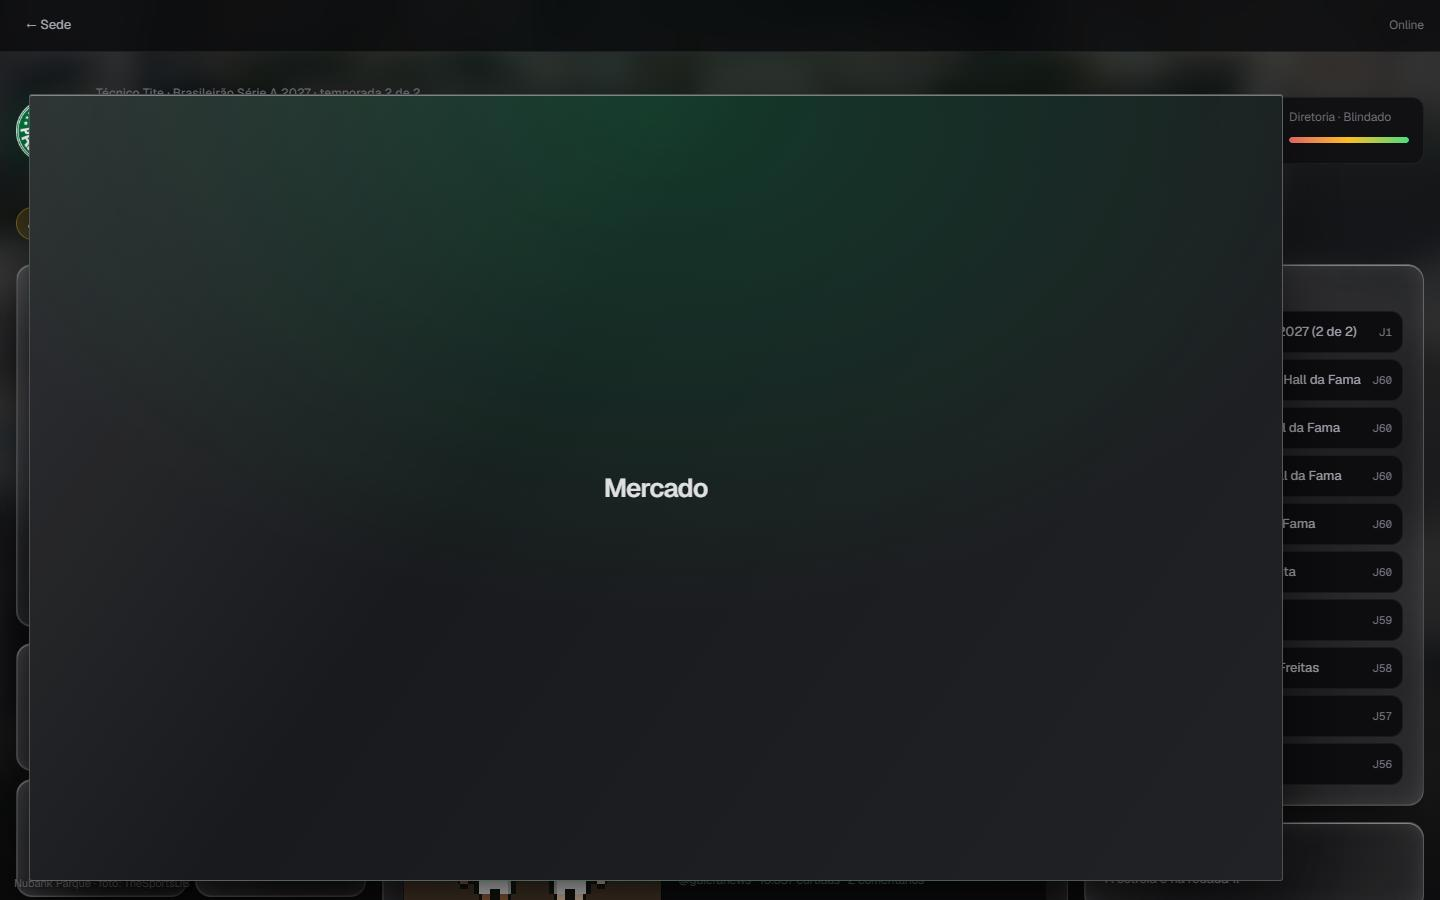
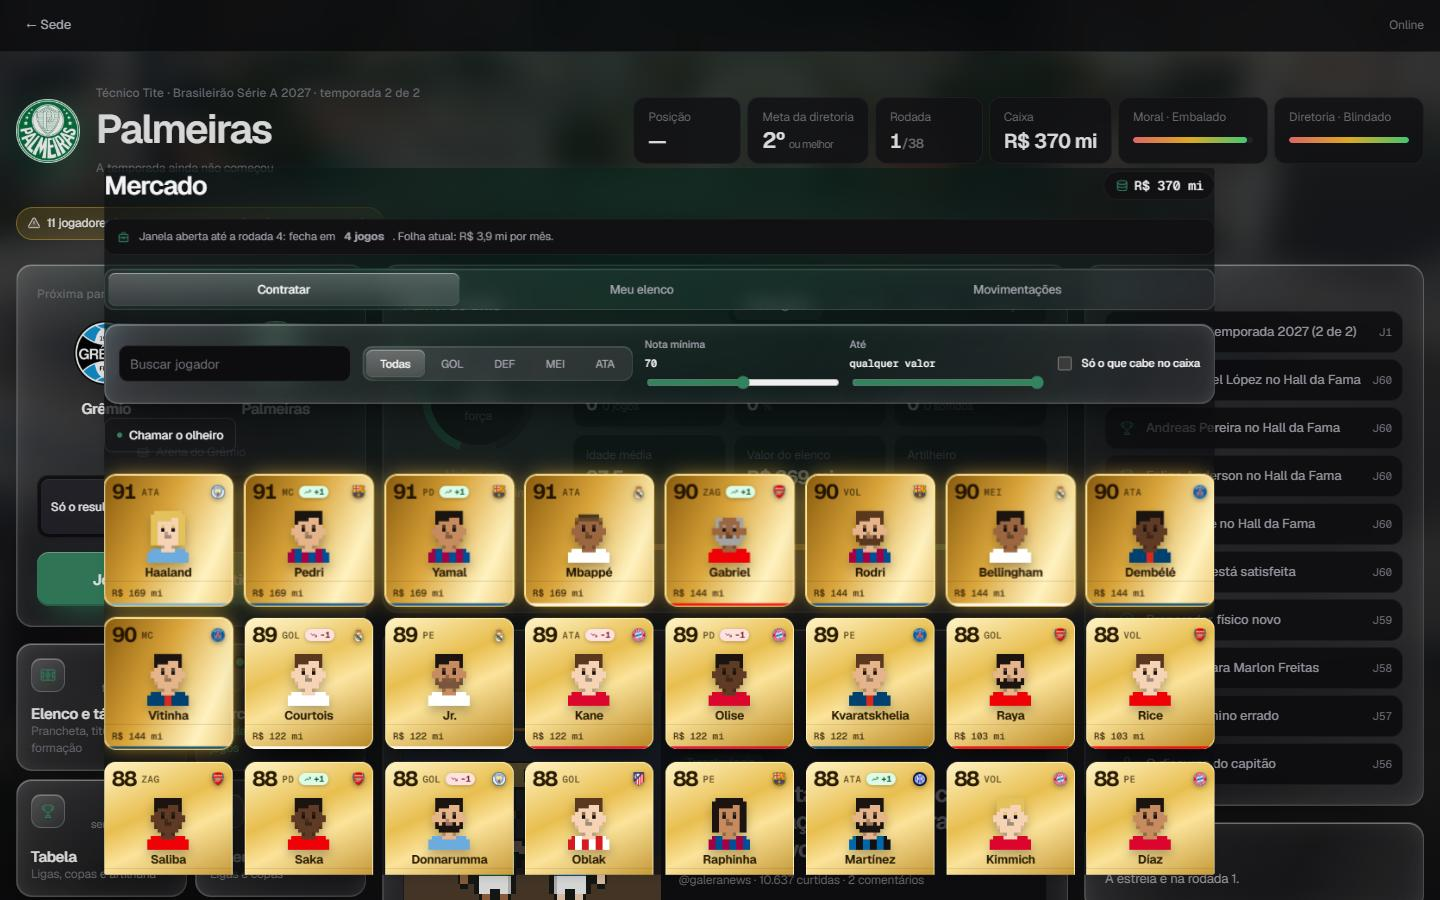
Carreira: o zoom sobe a própria tela já carregada, sem folha cinza nem recarga no fim
A tela de gestão é desenhada antes e ela mesma cresce do bloco da sede (e encolhe de volta), com a sede esmaecendo por
baixo e uma placa escura atrás. Só transform anima, sem opacidade nem desfoque na tela, e a entrada em cascata fica
desligada para não reiniciar no fim. O último quadro é idêntico à tela parada. Cliques durante o zoom são ignorados.

diff --git a/public/carreira/zoom.js b/public/carreira/zoom.js
@@ -1,44 +1,84 @@
-// Carreira: o zoom entre a sede e as telas de gestão, como abrir e fechar uma janela no Mac. Clicou num bloco da sede (Mercado, Elenco...):
-// uma folha de vidro com o formato do bloco cresce até a tela toda, a tela nova aparece por baixo dela e a folha some. Voltando à sede, a folha
-// cobre a tela, a sede volta por baixo e a folha encolhe até o lugar do bloco. A folha é um retângulo liso, sem texto nem desfoque (só
-// posição, tamanho e canto arredondado animam), então custa quase nada, mesmo com o vidro da página. Quem pede menos movimento no sistema troca de tela na hora.
-// Também troca o "← Vila" do cabeçalho por "← Sede" nas telas de gestão (sempre um botão só para voltar, no mesmo lugar).
+// Carreira: o zoom entre a sede e as telas de gestão, como abrir e fechar uma janela no Mac. A tela nova é desenhada ANTES (com tudo carregado)
+// e a própria tela, de verdade, cresce a partir do bloco da sede até o tamanho final, enquanto a sede esmaece por baixo. Voltando, a tela
+// de gestão encolhe até o bloco e a sede (desenhada antes) reaparece por baixo. Nada é trocado no fim: o último quadro da animação é
+// igual à tela parada, então não há "pulo" nem recarga. Só `transform` (e canto/sombra) animam; nada de opacidade nem desfoque na tela, para
+// o vidro dos painéis não mudar no meio. Quem pede menos movimento no sistema troca de tela na hora.
+// Também troca o "← Vila" do cabeçalho por "← Sede" nas telas de gestão (um botão só para voltar, no mesmo lugar).
 const Zoom = (() => {
   const TELAS_DE_GESTAO = new Set(["elenco", "mercado", "tabela", "calendario", "feed", "trocas", "temporadas", "clube"]);
+  const ABRE = { duration: 440, easing: "cubic-bezier(.2,.9,.25,1)" }, FECHA = { duration: 380, easing: "cubic-bezier(.4,0,.2,1)" };
+  const SOMBRA = "0 0 0 1px #ffffff40, 0 30px 80px -20px #000", SEM_SOMBRA = "0 0 0 0 #ffffff00, 0 0 0 0 #0000";
   let ocupado = false, rolagemDaSede = 0;
   const reduz = () => matchMedia("(prefers-reduced-motion: reduce)").matches;
-  const px = (n) => `${Math.round(n)}px`;
-  const inteira = () => ({ left: "0px", top: "0px", width: px(innerWidth), height: px(innerHeight), borderRadius: "0px" });
-  const caixa = (r) => ({ left: px(r.left), top: px(r.top), width: px(r.width), height: px(r.height), borderRadius: "18px" });
-  const pinta = (g, forma) => Object.assign(g.style, forma);
-  const espera = (anim) => anim.finished.catch(() => {});
-  function folha() { const g = document.createElement("div"); g.className = "zoom-folha"; document.body.append(g); document.body.classList.add("zoom-ativo"); return g; }
-  function acabar(g) { g.remove(); document.body.classList.remove("zoom-ativo"); ocupado = false; }
+  const px = (n) => `${Math.round(n * 100) / 100}px`;
+  const fim = (anim) => anim.finished.catch(() => {});
+  // dois quadros: a tela recém-desenhada já foi pintada quando a animação começa (o primeiro quadro não engasga)
+  const pintada = () => new Promise((ok) => requestAnimationFrame(() => requestAnimationFrame(ok)));
+  const centro = (r) => [r.left + r.width / 2, r.top + r.height / 2];
+  const escala = (bloco, tela) => Math.min(1, Math.max(0.1, bloco.width / tela.width));
+  const PROPS = ["position", "left", "top", "width", "height", "margin", "pointerEvents", "zIndex", "opacity", "transformOrigin", "maxHeight", "overflow", "borderRadius", "boxShadow", "willChange", "transform", "--placa"];
 
-  async function abrir(bloco, trocar) {
-    if (reduz() || ocupado || !bloco.isConnected) return trocar();
+  // a sede fica onde está, por baixo, sem mexer no resto da página
+  function fixar(el, r) { Object.assign(el.style, { position: "fixed", left: px(r.left), top: px(r.top), width: px(r.width), height: px(r.height), margin: "0", pointerEvents: "none" }); }
+  function soltar(el) { for (const p of PROPS) el.style[p] = ""; }
+
+  async function abrir(bloco, id, trocar) {
     ocupado = true; rolagemDaSede = scrollY;
-    const g = folha(), de = caixa(bloco.getBoundingClientRect());
-    pinta(g, de); g.dataset.titulo = (bloco.querySelector(".tile-txt b") || {}).textContent || "";
-    await espera(g.animate([de, inteira()], { duration: 380, easing: "cubic-bezier(.22,.8,.24,1)", fill: "forwards" }));
-    trocar();
-    await espera(g.animate([{ opacity: 1 }, { opacity: 0 }], { duration: 200, easing: "ease-out", fill: "forwards" }));
-    acabar(g);
+    const sede = document.getElementById("sede"), rSede = sede.getBoundingClientRect(), rBloco = bloco.getBoundingClientRect();
+    document.body.classList.add("zoom-ativo");
+    let tela = null;
+    try {
+      trocar(); // desenha a tela nova por inteiro (a sede some, a página volta ao topo)
+      tela = document.getElementById(id);
+      sede.classList.remove("hidden"); fixar(sede, rSede); sede.style.zIndex = "1";
+      const rTela = tela.getBoundingClientRect(), [cx, cy] = centro(rBloco);
+      Object.assign(tela.style, { transformOrigin: `${px(cx - rTela.left)} ${px(cy - rTela.top)}`, maxHeight: px(Math.max(200, innerHeight - rTela.top)), overflow: "hidden", position: "relative", zIndex: "2", willChange: "transform" });
+      const s = escala(rBloco, rTela);
+      tela.style.transform = `scale(${s})`; tela.style.borderRadius = "18px"; tela.style.setProperty("--placa", "0.96"); tela.classList.add("zoomando"); // já no tamanho do bloco enquanto pinta
+      await pintada();
+      await Promise.all([
+        fim(tela.animate([{ transform: `scale(${s})`, borderRadius: "18px", boxShadow: SOMBRA }, { transform: "scale(1)", borderRadius: "0px", boxShadow: SEM_SOMBRA }], ABRE)),
+        fim(tela.animate([{ opacity: 0.96 }, { opacity: 0.96, offset: 0.1 }, { opacity: 0, offset: 0.9 }, { opacity: 0 }], { ...ABRE, easing: "linear", pseudoElement: "::before" })),
+        fim(sede.animate([{ opacity: 1 }, { opacity: 0 }], { ...ABRE, easing: "ease-in", fill: "forwards" })),
+      ]);
+    } finally {
+      sede.classList.add("hidden"); soltar(sede); // só agora a sede sai (já estava invisível)
+      if (tela) { tela.classList.remove("zoomando"); soltar(tela); }
+      ocupado = false; // (a classe zoom-ativo fica: se ela saísse agora, a entrada em cascata da tela recomeçaria e daria um pulo no fim)
+    }
   }
-  async function fechar(trocar, achar) {
-    if (reduz() || ocupado) return trocar();
+
+  async function fechar(atual, trocar, achar) {
     ocupado = true;
-    const g = folha(); pinta(g, inteira()); g.classList.add("sem-titulo");
-    trocar(); // a sede aparece por baixo da folha
-    window.scrollTo({ top: rolagemDaSede, behavior: "instant" });
-    const bloco = achar();
-    if (!bloco) return acabar(g);
-    await espera(g.animate([inteira(), caixa(bloco.getBoundingClientRect())], { duration: 340, easing: "cubic-bezier(.4,0,.2,1)", fill: "forwards" }));
-    await espera(g.animate([{ opacity: 1 }, { opacity: 0 }], { duration: 140, easing: "ease-out", fill: "forwards" }));
-    acabar(g);
+    const tela = document.getElementById(atual), rTela = tela.getBoundingClientRect(), sede = document.getElementById("sede");
+    document.body.classList.add("zoom-ativo");
+    try {
+      // a tela de gestão congela onde está, por cima; a sede (invisível ainda) é desenhada por baixo, na rolagem em que estava
+      fixar(tela, rTela); Object.assign(tela.style, { zIndex: "300", willChange: "transform", overflow: "hidden" });
+      sede.style.opacity = "0";
+      trocar();
+      tela.classList.remove("hidden");
+      window.scrollTo({ top: rolagemDaSede, behavior: "instant" });
+      const bloco = achar(); if (!bloco) return;
+      const rBloco = bloco.getBoundingClientRect(), [cx, cy] = centro(rBloco);
+      tela.style.transformOrigin = `${px(cx - rTela.left)} ${px(cy - rTela.top)}`;
+      tela.style.setProperty("--placa", "0"); tela.classList.add("zoomando");
+      await pintada();
+      const s = escala(rBloco, rTela);
+      await Promise.all([
+        fim(tela.animate([{ opacity: 0 }, { opacity: 0.96, offset: 0.7 }, { opacity: 0.96 }], { ...FECHA, easing: "linear", pseudoElement: "::before" })),
+        fim(tela.animate([{ transform: "scale(1)", borderRadius: "0px", boxShadow: SEM_SOMBRA, opacity: 1 }, { transform: `scale(${s})`, borderRadius: "18px", boxShadow: SOMBRA, opacity: 1, offset: 0.82 }, { transform: `scale(${s})`, borderRadius: "18px", boxShadow: SOMBRA, opacity: 0 }], FECHA)),
+        fim(sede.animate([{ opacity: 0 }, { opacity: 1 }], { ...FECHA, easing: "ease-out", fill: "forwards" })),
+      ]);
+    } finally {
+      tela.classList.add("hidden"); tela.classList.remove("zoomando"); soltar(tela); soltar(sede);
+      ocupado = false;
+    }
   }
+
   // o botão do cabeçalho: "← Vila" na sede, na entrada e na partida; "← Sede" nas telas de gestão
   function cabecalho(id) {
+    if (!ocupado) document.body.classList.remove("zoom-ativo"); // uma troca sem zoom volta a ter a entrada em cascata
     const a = document.querySelector("#barra .voltar"); if (!a) return;
     const sede = TELAS_DE_GESTAO.has(id);
     a.textContent = sede ? "← Sede" : "← Vila";
@@ -46,13 +86,16 @@ const Zoom = (() => {
   }
   // para onde ir: a sede abre o zoom a partir do bloco; as telas de gestão voltam encolhendo até o bloco delas
   function ir(id, de) {
+    if (ocupado) return; // durante o zoom, nenhum clique troca de tela (nem cai no "← Vila" que aparece por baixo)
     const atual = typeof telaAtual !== "undefined" ? telaAtual : null;
     if (atual === "sede" && id !== "sede" && TELAS_DE_GESTAO.has(id)) {
-      const bloco = de && de.closest("#sede .tile[data-ir]") ? de.closest(".tile") : document.querySelector(`#sede .tile[data-ir="${id}"]`);
-      if (bloco && de && de.closest("#sede")) { cabecalho(id); return abrir(bloco, () => mostrarTela(id)); } // o cabeçalho já vira "← Sede" no começo do zoom
+      const bloco = de && de.closest("#sede .tile[data-ir]") ? de.closest(".tile") : null;
+      if (bloco && !reduz()) { cabecalho(id); return abrir(bloco, id, () => mostrarTela(id)); } // o cabeçalho já vira "← Sede" no começo do zoom
     }
-    if (id === "sede" && TELAS_DE_GESTAO.has(atual)) return fechar(() => mostrarTela("sede"), () => document.querySelector(`#sede .tile[data-ir="${atual}"]`));
+    if (id === "sede" && TELAS_DE_GESTAO.has(atual) && !reduz()) return fechar(atual, () => mostrarTela("sede"), () => document.querySelector(`#sede .tile[data-ir="${atual}"]`));
     return mostrarTela(id);
   }
-  return { ir, cabecalho, TELAS_DE_GESTAO };
+  // clicou no cabeçalho com o zoom rodando: não faz nada (em vez de sair da carreira sem querer)
+  document.addEventListener("click", (e) => { if (ocupado && e.target.closest && e.target.closest("#barra .voltar")) { e.preventDefault(); e.stopPropagation(); } }, true);
+  return { ir, cabecalho, TELAS_DE_GESTAO, ocupado: () => ocupado };
 })();

diff --git a/public/carreira/estilo.css b/public/carreira/estilo.css
@@ -1114,9 +1114,8 @@ body[data-tela="sede"] .credito-estadio:not(:empty){opacity:.85}
 .gc-duplo~p,.gc-duplo~h3{margin-top:16px}.gc-duplo~h3 small{font-weight:400;font-size:12px;margin-left:6px}
 .quadro h3~.gc-lista,.quadro h3~.gc-grade,.quadro h3~.gc-recordes,.quadro h3~.gc-tempo{margin-top:10px}
 .quadro .gc-recordes+h3,.quadro .gc-lista+h3,.quadro .gc-tempo+h3{margin-top:22px}
-/* o zoom entre a sede e as telas (zoom.js): a folha lisa que cresce do bloco até a tela toda e encolhe de volta; as entradas em cascata param enquanto ela anima */
-.zoom-folha{position:fixed;z-index:300;pointer-events:none;box-sizing:border-box;overflow:hidden;border:1px solid #ffffff38;background:linear-gradient(125deg,#ffffff22,#ffffff0a 40%,#ffffff12),radial-gradient(70vmax 50vmax at 50% 0%,color-mix(in srgb,var(--clube) 40%,transparent),transparent 72%),#101114;box-shadow:inset 0 1px 0 #ffffff66,0 30px 80px -20px #000;display:grid;place-items:center}
-.zoom-folha::after{content:attr(data-titulo);font:600 26px/1 var(--fonte);letter-spacing:-.03em;color:var(--t1);opacity:.9;white-space:nowrap}
-.zoom-folha.sem-titulo::after{content:none}
+/* o zoom entre a sede e as telas (zoom.js): a própria tela cresce do bloco e encolhe de volta; sem a entrada em cascata dos painéis (ela fica desligada até a próxima troca sem zoom) */
 body.zoom-ativo .tela>*,body.zoom-ativo .hub-grade>*>*{animation:none!important}
+/* a placa escura atrás da tela enquanto ela cresce ou encolhe: a sede não "vaza" pelo vidro. É um pseudo-elemento: a tela em si não ganha opacidade (o vidro dos painéis não muda no meio) */
+.tela.zoomando::before{content:"";position:absolute;inset:0;z-index:-1;pointer-events:none;border-radius:inherit;background:radial-gradient(70vmax 50vmax at 50% 0%,color-mix(in srgb,var(--clube) 30%,transparent),transparent 72%),#0d0e11;opacity:var(--placa,0)}
 .topo-tela .volta[data-ir="sede"]{display:none}

diff --git a/tests/carreira-zoom.test.js b/tests/carreira-zoom.test.js
@@ -10,7 +10,7 @@ const fonte = fs.readFileSync(path.join(__dirname, "../public/carreira/zoom.js")
 function mundo({ telaAtual = "sede", reduz = false } = {}) {
   const voltar = { textContent: "← Vila", href: "/", dataset: {}, setAttribute(k, v) { this[k] = v; } };
   const chamadas = [];
-  const ctx = { document: { querySelector: (s) => (s === "#barra .voltar" ? voltar : null), body: { classList: { add() {}, remove() {} }, append() {} }, createElement: () => ({ style: {}, classList: { add() {} }, dataset: {}, animate: () => ({ finished: Promise.resolve() }), remove() {} }) },
+  const ctx = { document: { addEventListener() {}, getElementById: () => null, querySelector: (s) => (s === "#barra .voltar" ? voltar : null), body: { classList: { add() {}, remove() {} }, append() {} }, createElement: () => ({ style: {}, classList: { add() {} }, dataset: {}, animate: () => ({ finished: Promise.resolve() }), remove() {} }) },
     matchMedia: () => ({ matches: reduz }), innerWidth: 1000, innerHeight: 600, scrollY: 0, scrollTo() {}, telaAtual, mostrarTela: (id) => chamadas.push(id) };
   vm.createContext(ctx);
   vm.runInContext(`${fonte}; this.Zoom = Zoom;`, ctx);

diff --git a/MUDANCAS.md b/MUDANCAS.md
@@ -1,14 +1,15 @@
-# Carreira: o zoom da sede (abre e fecha como uma janela) e o "← Sede" no cabeçalho
+# Carreira: o zoom da sede (a tela sobe já carregada, como abrir uma janela) e o "← Sede" no cabeçalho
 
 ## O zoom
-- Clicou num bloco da sede (**Elenco e tática, Mercado, Tabela, Calendário, Clube, Temporadas** e **Trocas**, na sala), uma folha de vidro com o nome do bloco **cresce do lugar dele até a tela toda**, a tela nova aparece por baixo e a folha some. É o jeito de abrir uma janela no Mac.
-- Voltando, a folha cobre a tela, a sede reaparece por baixo (na mesma posição de rolagem) e a folha **encolhe até o bloco**.
-- É só um retângulo liso (posição, tamanho e canto arredondado), sem texto nem desfoque animado, e as entradas em cascata param enquanto ele anima: continua leve. Quem pede "reduzir movimento" no sistema troca de tela na hora. Clique rápido não trava (cliques durante o zoom trocam direto).
+- Clicou num bloco da sede (**Elenco e tática, Mercado, Tabela, Calendário, Clube, Temporadas** e **Trocas**, na sala), a tela nova é **desenhada por inteiro antes** (cartas, listas, números) e a **própria tela, já carregada, cresce do lugar do bloco até o tamanho final**, com a sede esmaecendo por baixo. Voltando, a tela encolhe até o bloco e a sede (também já desenhada) reaparece por baixo.
+- **Sem troca no fim:** o último quadro da animação é igual à tela parada (medido: zero de diferença no abrir e no fechar). Antes havia uma folha cinza e borrada e um "recarregar" no final; agora nada é trocado.
+- Para isso: só `transform` (mais canto e sombra) anima; a tela não ganha opacidade nem desfoque (o vidro dos painéis não muda no meio); uma placa escura em pseudo-elemento fica por trás durante o movimento, para a sede não vazar pelo vidro; a entrada em cascata dos painéis fica desligada (se ela voltasse no fim, reiniciaria e daria o "pulo").
+- A tela começa já no tamanho do bloco enquanto pinta (sem piscar em tamanho cheio), e cliques durante o zoom são ignorados (inclusive no cabeçalho). Quem pede "reduzir movimento" no sistema troca de tela na hora.
 
 ## O botão do cabeçalho
 - Antes ficava sempre "← Vila", e era fácil clicar sem querer e sair da carreira. Agora é **"← Vila" só na sede, na entrada e na partida**, e **"← Sede"** em todas as telas de gestão (no mesmo lugar). O "← Sede" repetido dentro de cada tela saiu, já que o do cabeçalho faz o mesmo.
-- O cabeçalho vira "← Sede" já no começo do zoom, para o clique durante a animação nunca cair em "← Vila".
+- O cabeçalho vira "← Sede" já no começo do zoom, e cliques nele durante a animação não fazem nada (nunca caem no "← Vila" que aparece por baixo).
 
 ## Conferido
 - `tests/carreira-zoom.test.js` (4 testes): o texto do cabeçalho em cada tela, o atalho de quem pede menos movimento, o "Ver todas" (sem bloco) e a ordem dos scripts.
-- No Chrome, os 6 blocos (e o voltar de cada um): a folha aparece com o nome certo, a tela abre, o cabeçalho troca para "← Sede" durante e depois, e a sede volta com "← Vila"; sem erros no console. Fotos em `planos/imagens/carreira-zoom-*.jpg`.
+- No Chrome (Mercado, Elenco, Clube e Tabela, abrindo e fechando): o último quadro da animação é idêntico à tela parada; sem erros no console. Fotos em câmera lenta em `planos/imagens/carreira-zoom-*.jpg`.
